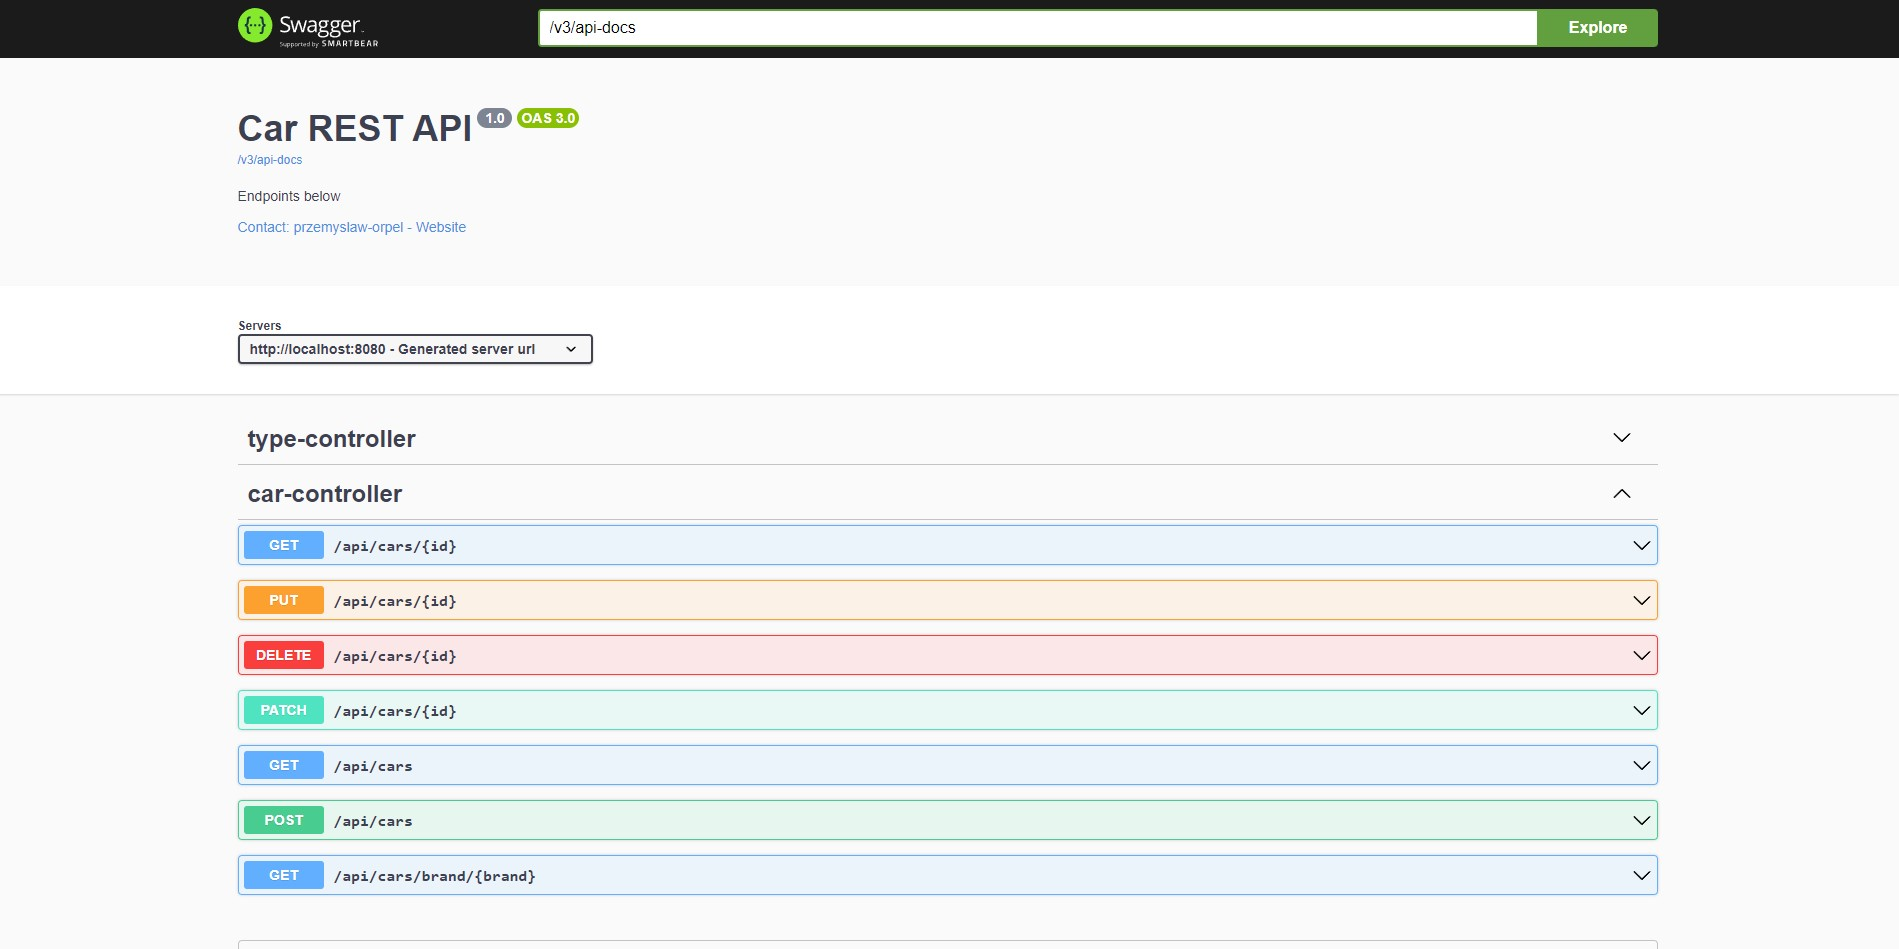
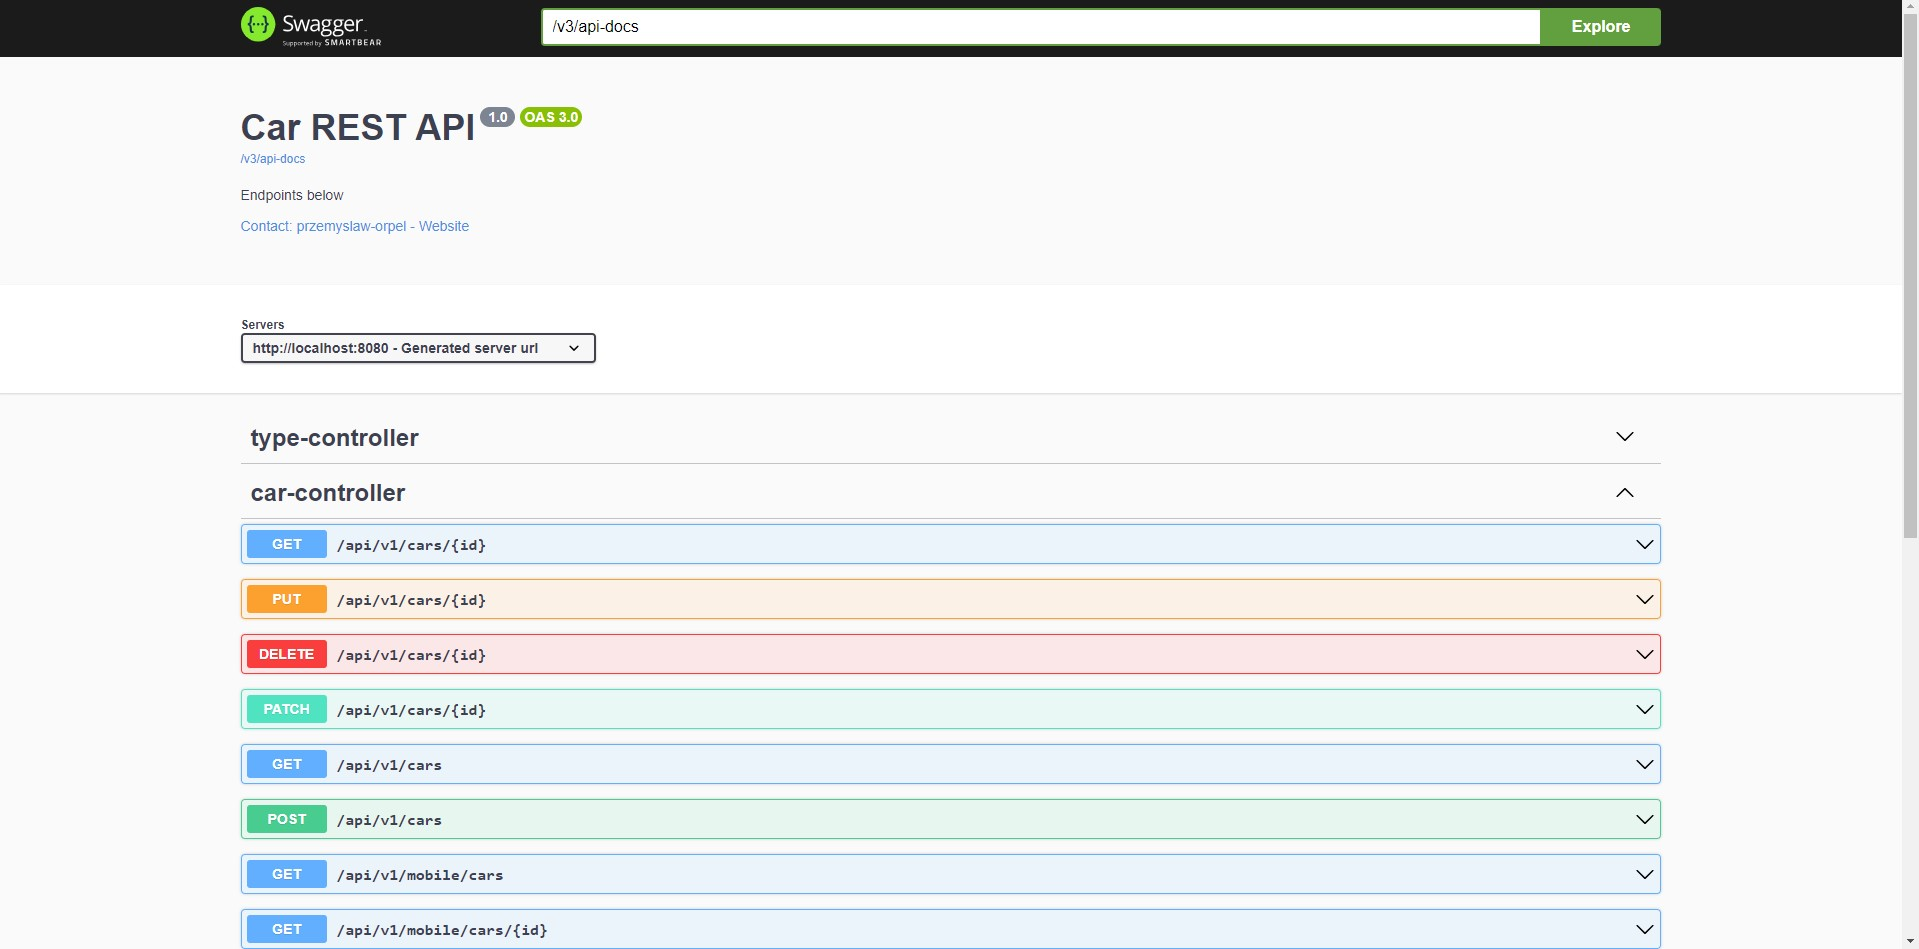
implement JSON Views

diff --git a/src/main/java/com/carRestApi/controller/CarController.java b/src/main/java/com/carRestApi/controller/CarController.java
@@ -5,6 +5,8 @@ import com.carRestApi.model.Car;
 import com.carRestApi.model.Type;
 import com.carRestApi.service.CarService;
 import com.carRestApi.service.TypeService;
+import com.carRestApi.view.Views;
+import com.fasterxml.jackson.annotation.JsonView;
 import org.springframework.http.HttpStatus;
 import org.springframework.http.ResponseEntity;
 import org.springframework.web.bind.annotation.*;
@@ -13,7 +15,7 @@ import java.util.List;
 import java.util.stream.Collectors;
 
 @RestController
-@RequestMapping("/api/cars")
+@RequestMapping("/api")
 public class CarController {
     private final CarService carService;
     private final TypeService typeService;
@@ -22,8 +24,8 @@ public class CarController {
         this.carService = carService;
         this.typeService = typeService;
     }
-
-    @GetMapping("/{id}")
+    @JsonView(Views.Web.class)
+    @GetMapping("/v1/cars/{id}")
     public ResponseEntity<CarDTO> getCar(@PathVariable Long id) {
         CarDTO car = carService.convertToDto(carService.findById(id));
         if (car == null)
@@ -31,8 +33,8 @@ public class CarController {
         else
             return new ResponseEntity<>(car, HttpStatus.OK);
     }
-
-    @GetMapping()
+    @JsonView(Views.Web.class)
+    @GetMapping("/v1/cars")
     public ResponseEntity<List<CarDTO>> getCars() {
         try {
             List<CarDTO> cars = carService.findAll();
@@ -44,7 +46,7 @@ public class CarController {
         }
     }
 
-    @PostMapping
+    @PostMapping("/v1/cars")
     public ResponseEntity<CarDTO> createCar(@RequestBody CarDTO carDTO) {
         try {
             Type type = typeService.findByName(carDTO.getType());
@@ -57,7 +59,7 @@ public class CarController {
         }
     }
 
-    @DeleteMapping("/{id}")
+    @DeleteMapping("/v1/cars/{id}")
     public ResponseEntity<HttpStatus> deleteCar(@PathVariable Long id) {
         try {
             Car car = carService.findById(id);
@@ -70,7 +72,7 @@ public class CarController {
         }
     }
 
-    @PutMapping("/{id}")
+    @PutMapping("/v1/cars/{id}")
     public ResponseEntity<CarDTO> editCar(@PathVariable Long id, @RequestBody CarDTO carDTO) {
         try {
             if (!id.equals(carDTO.getId()))
@@ -95,7 +97,7 @@ public class CarController {
         }
     }
 
-    @PatchMapping("/{id}")
+    @PatchMapping("/v1/cars/{id}")
     public ResponseEntity<CarDTO> editPartCar(@PathVariable Long id, @RequestBody CarDTO carDTO) {
         try {
             if (!id.equals(carDTO.getId()))
@@ -124,8 +126,8 @@ public class CarController {
             return new ResponseEntity<>(HttpStatus.INTERNAL_SERVER_ERROR);
         }
     }
-
-    @GetMapping("/brand/{brand}")
+    @JsonView(Views.Web.class)
+    @GetMapping("/v1/cars/brand/{brand}")
     public ResponseEntity<List<CarDTO>> getCarsByBrand(@PathVariable String brand) {
         try {
             List<CarDTO> cars = carService
@@ -139,8 +141,8 @@ public class CarController {
             return new ResponseEntity<>(HttpStatus.INTERNAL_SERVER_ERROR);
         }
     }
-
-    @GetMapping("/type/{type}")
+    @JsonView(Views.Web.class)
+    @GetMapping("/v1/cars/type/{type}")
     public ResponseEntity<List<CarDTO>> getCarsByType(@PathVariable String type) {
         try {
             List<CarDTO> cars = carService
@@ -154,13 +156,69 @@ public class CarController {
             return new ResponseEntity<>(HttpStatus.INTERNAL_SERVER_ERROR);
         }
     }
-
-    @GetMapping("/model/{model}")
+    @JsonView(Views.Web.class)
+    @GetMapping("/v1/cars/model/{model}")
     public ResponseEntity<List<CarDTO>> getCarsByModel(@PathVariable String model) {
         try {
             List<CarDTO> cars = carService
                     .findAll()
                     .stream().filter(c -> model.equalsIgnoreCase(c.getModel()))
+                    .collect(Collectors.toList());
+            if (cars.isEmpty())
+                return new ResponseEntity<>(HttpStatus.NO_CONTENT);
+            return new ResponseEntity<>(cars, HttpStatus.OK);
+        } catch (Exception e) {
+            return new ResponseEntity<>(HttpStatus.INTERNAL_SERVER_ERROR);
+        }
+    }
+
+    /////////////////////////////////////////////////////////////////////////////////////
+    //Endpoints for mobile devices
+    @JsonView(Views.Mobile.class)
+    @GetMapping("/v1/mobile/cars")
+    public ResponseEntity<List<CarDTO>> getCarsMobile() {
+        try {
+            List<CarDTO> cars = carService.findAll();
+            if (cars.isEmpty())
+                return new ResponseEntity<>(HttpStatus.NO_CONTENT);
+            return new ResponseEntity<>(cars, HttpStatus.OK);
+        } catch (Exception e) {
+            return new ResponseEntity<>(HttpStatus.INTERNAL_SERVER_ERROR);
+        }
+    }
+
+    @JsonView(Views.Mobile.class)
+    @GetMapping("/v1/mobile/cars/{id}")
+    public ResponseEntity<CarDTO> getCarMobile(@PathVariable Long id) {
+        CarDTO car = carService.convertToDto(carService.findById(id));
+        if (car == null)
+            return new ResponseEntity<>(HttpStatus.NOT_FOUND);
+        else
+            return new ResponseEntity<>(car, HttpStatus.OK);
+    }
+
+    @JsonView(Views.Mobile.class)
+    @GetMapping("/v1/mobile/cars/brand/{brand}")
+    public ResponseEntity<List<CarDTO>> getCarsByBrandMobile(@PathVariable String brand) {
+        try {
+            List<CarDTO> cars = carService
+                    .findAll()
+                    .stream().filter(c -> brand.equalsIgnoreCase(c.getBrand()))
+                    .collect(Collectors.toList());
+            if (cars.isEmpty())
+                return new ResponseEntity<>(HttpStatus.NO_CONTENT);
+            return new ResponseEntity<>(cars, HttpStatus.OK);
+        } catch (Exception e) {
+            return new ResponseEntity<>(HttpStatus.INTERNAL_SERVER_ERROR);
+        }
+    }
+    @JsonView(Views.Mobile.class)
+    @GetMapping("/v1/mobile/cars/type/{type}")
+    public ResponseEntity<List<CarDTO>> getCarsByTypeMobile(@PathVariable String type) {
+        try {
+            List<CarDTO> cars = carService
+                    .findAll()
+                    .stream().filter(c -> type.equalsIgnoreCase(c.getType()))
                     .collect(Collectors.toList());
             if (cars.isEmpty())
                 return new ResponseEntity<>(HttpStatus.NO_CONTENT);

diff --git a/src/main/java/com/carRestApi/controller/TypeController.java b/src/main/java/com/carRestApi/controller/TypeController.java
@@ -9,7 +9,7 @@ import org.springframework.web.bind.annotation.*;
 import java.util.List;
 
 @RestController
-@RequestMapping("/api/types")
+@RequestMapping("/api")
 public class TypeController {
     private final TypeService typeService;
 
@@ -17,7 +17,7 @@ public class TypeController {
         this.typeService = typeService;
     }
 
-    @GetMapping("/{id}")
+    @GetMapping("/v1/types/{id}")
     public ResponseEntity<Type> getType(@PathVariable Long id) {
         Type type = typeService.findById(id);
         if (type == null)
@@ -26,7 +26,7 @@ public class TypeController {
             return new ResponseEntity<>(type, HttpStatus.OK);
     }
 
-    @GetMapping()
+    @GetMapping("/v1/types")
     public ResponseEntity<List<Type>> getTypes() {
         try {
             List<Type> types = typeService.findAll();
@@ -38,7 +38,7 @@ public class TypeController {
         }
     }
 
-    @PostMapping
+    @PostMapping("/v1/types")
     public ResponseEntity<Type> createTypes(@RequestBody Type type) {
         try {
             Type _type = typeService.save(new Type(type.getName()));
@@ -48,7 +48,7 @@ public class TypeController {
         }
     }
 
-    @DeleteMapping("/{id}")
+    @DeleteMapping("/v1/types/{id}")
     public ResponseEntity<HttpStatus> deleteById(@PathVariable Long id) {
         Type type = typeService.findById(id);
         if (type == null)
@@ -61,7 +61,7 @@ public class TypeController {
         }
     }
 
-    @PutMapping("/{id}")
+    @PutMapping("/v1/types/{id}")
     public ResponseEntity<Type> editType(@PathVariable Long id, @RequestBody Type type) {
         if (!id.equals(type.getId()))
             return new ResponseEntity<>(HttpStatus.CONFLICT);

diff --git a/src/main/java/com/carRestApi/dto/CarDTO.java b/src/main/java/com/carRestApi/dto/CarDTO.java
@@ -1,10 +1,22 @@
 package com.carRestApi.dto;
 
+import com.carRestApi.view.Views;
+import com.fasterxml.jackson.annotation.JsonView;
+
 public class CarDTO {
+    @JsonView(Views.Mobile.class)
     private Long id;
+    @JsonView(Views.Mobile.class)
+
     private String brand;
+    @JsonView(Views.Mobile.class)
+
     private String model;
+    @JsonView(Views.Web.class)
+
     private String type;
+    @JsonView(Views.Web.class)
+
     private String gen;
 
     public CarDTO() {

diff --git a/src/main/java/com/carRestApi/view/Views.java b/src/main/java/com/carRestApi/view/Views.java
@@ -1,0 +1,9 @@
+package com.carRestApi.view;
+
+public class Views {
+    public static class Mobile{
+    }
+
+    public static class Web extends Mobile{
+    }
+}
